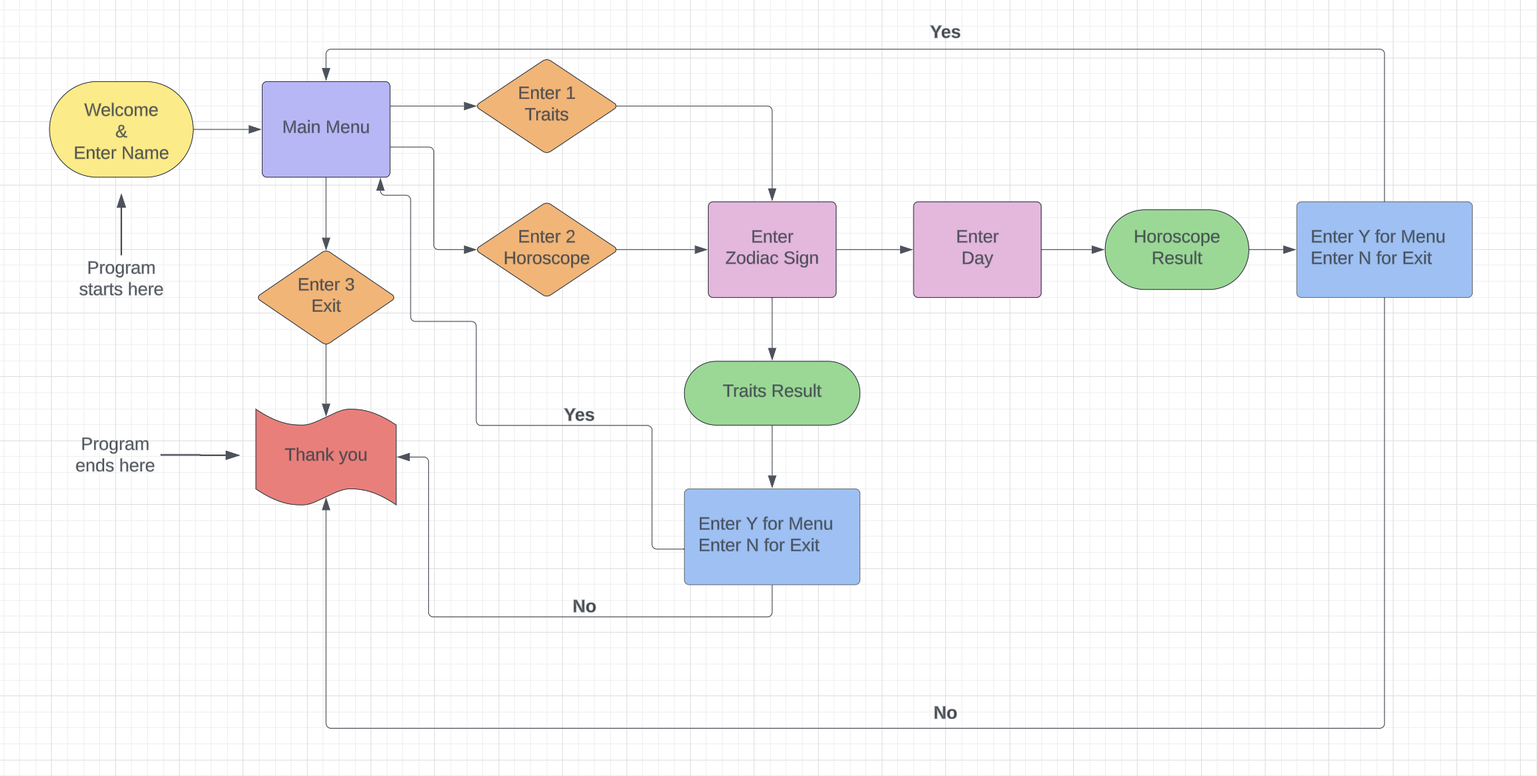
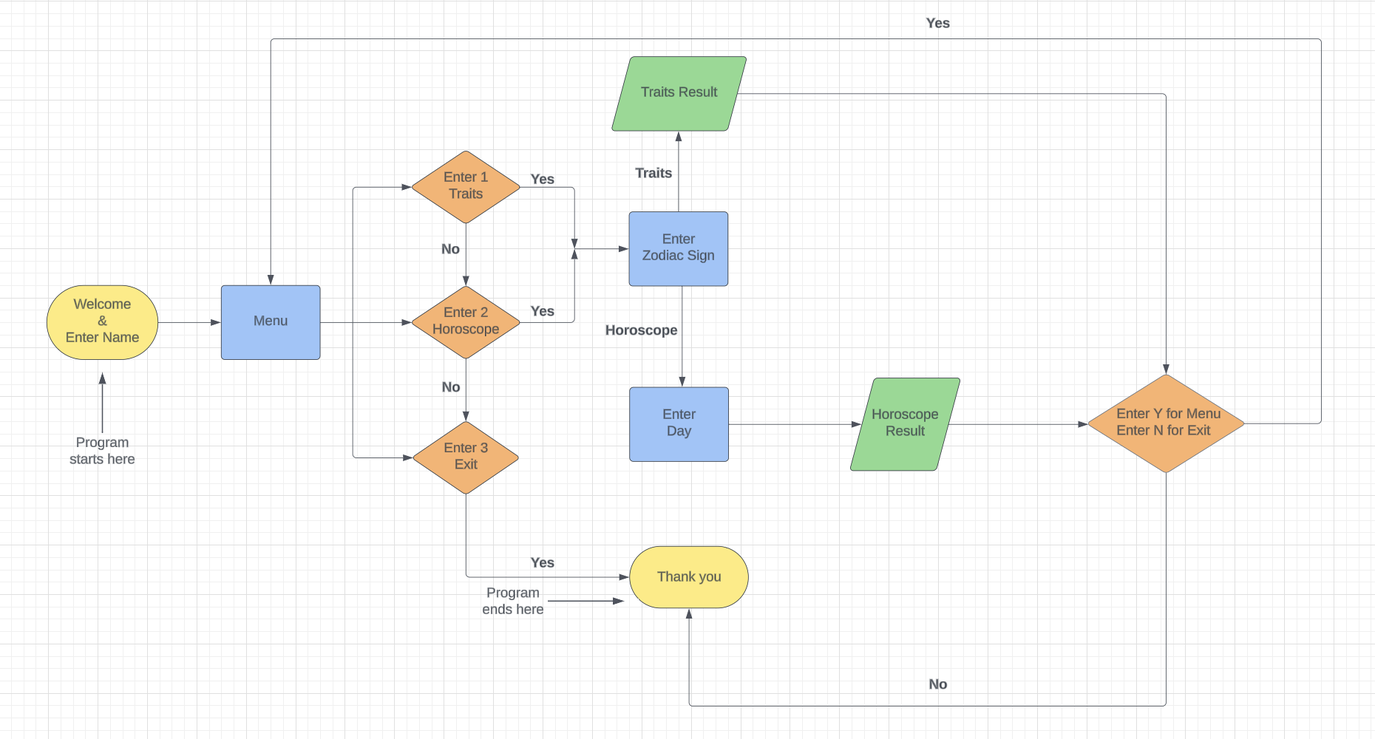
Document design features in readme.

diff --git a/README.md b/README.md
@@ -20,17 +20,20 @@ The link to the live version of the project can be found [HERE](https://your-hor
 
 - As a first-time user, I want to be able to determine my zodiac sign based on my month of birth. So that I can engage with content that is relevant to me without prior knowledge of astrology. 
 - As a first-time user, I want to choose my zodiac sign from a list. So that I can see specific insights related to my sign.
-- As a first-time user, I want the app to be colorful and engaging. So that my experience learning about my zodiac traits is fun and visually appealing.
+- As a first-time user, I want the app to be colorful, have images and engaging. So that my experience learning about my zodiac traits is fun and visually appealing.
 - As a first-time user, I want to choose the day for which I want to know my horoscope. So that I can get insights for specific days, past, present or future.
 - As a first-time user, I want easy options to navigate back or exit the app. So that I can have a smooth user experience without feeling stuck in any part of the app.
 - As a first-time user, I want to see an attractive logo when I open the app. So that I can easily recognize and remember the app.
+- As a first-times user, I would like a personalized feel of my name being used inside the application.
+- As a first-times user, I would like a simple and clear options to enhance usability and reduce confusion.
+- As a first time user, I would like to see some confirmation if I have successfully exited out of the application.
 
 ### Frequent Player:
 
 - As a frequent user, I want the horoscopes to be updated daily. So that I can rely on the app for fresh and relevant astrological insights every day.
 - As a frequent user, I want to check not only my horoscope but also those of my friends and family without restrictions. So that I can share and discuss these insights with them.
 - As a frequent user, I want the process of selecting zodiac signs and fetching results to be quick and simple. So that I can enjoy a seamless experience without unnecessary delays.
-- As a frequent user, I want to see animations and images while waiting for results. So that the waiting time is more enjoyable and the app feels lively.
+- As a frequent user, I want to see some animations while waiting for results. So that the waiting time is more enjoyable and the app feels lively.
 - As a frequent user, I want to create a profile where I can save my zodiac sign and view past results. So that I can have a personalized experience and easily access historical datas.
 
 ## Design
@@ -41,157 +44,221 @@ I made a flowchart for the project to plan out my code structure using [Lucid](h
 
 ![Flowchart](assets/readme_images/flowchart.png)
 
-<!-- ### Colour Scheme:
-
-The primary enhancement to the game from its original version is the inclusion of themed color palettes for the tiles. Key colors such as purple, orange, blue, and red have been carefully curated for this purpose. In the light mode, gentle and muted hues of these colors were chosen to create a soothing visual experience for players.
-
-Conversely, in the dark mode, deeper and richer shades of purple and blue were implemented to cater to players who prefer a very dark background. This contrasts with the darker tones of orange and red, which offer a touch of brightness to the dark-mode interface without being overly intense. The goal was to provide options for players with varying preferences regarding the darkness of the background.
-
-Throughout both light and dark modes, the emphasis was placed on avoiding excessively bright or harsh colors that could strain the player's eyes. By maintaining a balance between aesthetics and visual comfort, the game aims to enhance the overall gaming experience for players, regardless of their chosen mode.
-
-##### Light Mode:
-
-![Light Mode](documentation/light-mode-palette.png)
-
-##### Dark Mode:
-![Dark Mode](documentation/dark-mode-palette.png)
-
-### Typography:
-
-Using the default "Arial" font for the game was a deliberate choice to maintain simplicity and clarity in the overall design. By opting for a widely recognized and easy-to-read font like Arial, the focus remains on the gameplay itself without introducing unnecessary distractions or complexities.
-
-The decision to avoid excessive styling aligns with the goal of keeping the game's appearance clean and neat. Arial's straightforward and legible characteristics ensure that players can quickly interpret the text elements within the game interface without any hindrance. This approach fosters a seamless user experience, where players can engage with the game effortlessly without being overwhelmed by unnecessary design flourishes.
-
-> "The aesthetics of the website should be simple and neat to avoid any distractions from the gameplay."
-
 ## Features
 
 ### Existing Features
 
 #### Landing Page:
-The landing page is the main and sole page of the web application. It features a navigation bar at the top, providing access to various functionalities. In the middle of the landing page lies the game area, comprising a grid of tiles where users can input letters. Directly below the game area is a keyboard interface, allowing users to type letters to form words for guessing. Finally, at the bottom of the page, there is a footer displaying a copyright message.
 
-![Landing Page](documentation/landing-page.png)
+##### Objective:
 
-#### Navigation bar:
-The navigation bar on the landing page features the logo on the left side, serving as a visual identifier for the web application. On the right side of the navigation bar, users can find how to play, reset, mode, themes and statistics icons representing different functionalities to interact with the web application.
+Welcome the user to the application and collect their name for a personalized experience.
 
-> "The user interface should be welcoming and intuitive, making it easy for first-time players to navigate and interact with the game."
+##### Design Elements:
 
-![Navigation Bar](documentation/nav-bar.png)
+- Logo: Placed prominently at the top, the logo serves as a visual anchor and brand identifier, ensuring it's memorable and recognizable.
+- Welcome Message: A friendly and inviting message that greets users and sets a warm tone for their interaction with the application.
+- Name Input: A text box prompts users to enter their name, allowing for personalization of the experience. This is optional, and users can press enter to proceed anonymously if they prefer privacy.
 
-The features of those icons are explained as follows.
+##### User Flow:
 
-#### How to Play: 
-When clicked, this icon opens a modal that offers comprehensive instructions on how to play the game. It encompasses details about the game's objective, rules, and tips for achieving success during gameplay. Additionally, the background color of the "How to Play" modal dynamically adjusts according to the current theme selected by the user. This feature enhances the overall visual appeal of the game, making it more vibrant and engaging for players.
+- User sees the logo and reads the welcome message.
+- User is prompted to enter their name for a personalized experience or can choose to proceed without doing so by pressing enter.
+- Upon submission, the user is redirected to the Menu Page.
 
-> "The game should offer straightforward instructions on how to play, ensuring new players understand the mechanics without confusion."
+> - As a first-time user, I want to see an attractive logo when I open the app. So that I can easily recognize and remember the app.
+> - As a first-times user, I would like a personalized feel of my name being used inside the application.
 
-> "Clear explanations should be given regarding the conditions for winning or losing the game, helping new players set their objectives."
+![Landing Page](assets/readme_images/welcome_page.png)
 
-![How To Play](documentation/how-to-play.gif)
+#### Menu Page:
 
-#### Reset: 
-This icon allows users to reset the game or start a new round. Upon clicking, any ongoing game progress is cleared, and the game board is reset to its initial state, ready for a fresh gameplay session.
+##### Objective: 
 
-> "Facilitating easy game resets allows frequent players to quickly start new rounds, promoting replayability and continuous enjoyment of the game."
+Provide navigational choices to the user for exploring different features of the application.
 
-#### Mode: 
-Clicking on this icon toggles between different display modes, such as light mode and dark mode. Users can select their preferred mode for optimal viewing comfort, depending on their surroundings or personal preferences.
+##### Design Elements:
 
-> "Implementing a toggle between dark and light modes caters to frequent players' preferences for comfortable viewing, especially during extended gameplay sessions."
+- Logo: Continuity is maintained with the logo positioned at the top of the page.
+- Personalized Greeting: A "Hello" message that includes the user's name (if provided) to reinforce personalization.
+- Menu Options: Clearly numbered options guide the user to their next activity:<br>
+Enter 1 to know your traits.<br>
+Enter 2 to know your daily horoscope.<br>
+Enter 3 to exit.<br>
 
-![Mode](documentation/mode.gif)
+##### User Flow:
 
-#### Themes: 
-This icon provides access to a panel where users can choose from various color themes for the game interface. By selecting a theme, users can customize the appearance of the game according to their preferences or mood.
+- User is greeted by name (if provided) and sees the menu options.
+- User selects an option by entering the corresponding number.
+- The application directs the user to the appropriate page based on their selection.
 
-> "Offering a variety of colorful themes helps maintain engagement for frequent players, preventing monotony and enhancing the overall user experience."
+> - As a first-times user, I would like a simple and clear options to enhance usability and reduce confusion.
 
-![Themes](documentation/themes.gif)
+![Menu Page](assets/readme_images/main_menu.png)
 
-#### Statistics: 
-Clicking on this icon opens a modal displaying game statistics of player's achievements. It includes information such as number of games played, win percentage, games won and games lost for tracking progress and performance.
+#### Zodiac Signs Page: 
 
-> "Tracking and displaying the best scores across multiple sessions adds motivation for frequent players, allowing them to monitor their progress and strive for improvement."
+##### Objective: 
+
+Assist users in identifying their zodiac sign based on their birth date.
+
+##### Design Elements:
+
+- List of Zodiac Signs: Each zodiac sign is listed alongside its corresponding date range in brackets, aiding users who are unfamiliar with zodiac periods.
+- Instructional Prompt: Users are guided on how to select their zodiac sign, enhancing usability.
+
+##### User Flow:
+
+- User is presented with a list of zodiac signs and corresponding date ranges.
+- User identifies and selects their zodiac sign based on their birth date.
+- Depending on their previous menu selection:
+  - If option 1 was selected, the user is directed to a page detailing the traits of their chosen zodiac sign.
+  - If option 2 was selected, the user is directed to a page where the user has to select for which day they want to know thier horoscope.
+
+> - As a first-time user, I want to be able to determine my zodiac sign based on my month of birth. So that I can engage with content that is relevant to me without prior knowledge of astrology. 
+> - As a first-time user, I want to choose my zodiac sign from a list. So that I can see specific insights related to my sign.
+> - As a frequent user, I want the process of selecting zodiac signs and fetching results to be quick and simple. So that I can enjoy a seamless experience without unnecessary delays.
+
+![Zodiac Signs](assets/readme_images/zodiac_signs_list.png)
 
 
-![Statistics](documentation/statistics.gif)
+#### Zodiac's Traits Result Page:
 
-#### Game Area:
-The game area consists of grid of tiles in which the user can enter the letters to guess the word. The color of the tiles can be changed by choosing a color in the themes menu. The background of the game area will be changed between black and half-white according to dark and light mode.
-Apart from this the tiles also performs various animations and shows alert messages as follows.
+##### Objective: 
 
-![Game Area](documentation/game-area.png)
+Display detailed traits of the selected zodiac sign in an engaging and visually appealing format.
 
-#### Flip Animation:
-When the user enters a valid guess, the tiles in the game area perform a flipping animation to visually indicate the validation of the guess. The game then proceeds to validate the guess against the correct answer. Based on this validation, each tile receives a class that determines its color and visual representation:
+##### Design Elements:
 
-- **Green Tiles**: Tiles representing letters that are present in the word and in the correct position are assigned a class that gives them a green color. This indicates that the user has guessed these letters correctly.
+- Zodiac Symbol Image: Prominently displays an artistic or symbolic representation of the chosen zodiac sign at the top of the page. This visual serves not only as an attractive feature but also helps reinforce the identity of the sign.
+- Zodiac Name: The name of the zodiac sign is displayed next to the image, serving as a clear identifier and header for the information that follows.
+- Traits List: Traits of the zodiac sign are presented in a list format. The traits begin with the starting letter of the zodiac's name, adding a creative and thematic touch to the content presentation.
+- Colorful Design: The page uses colors that are associated with or complement the zodiac sign, enhancing visual engagement and making the information more appealing.
+- Navigation Options: At the bottom of the page, users are provided with options to navigate back to the menu or exit the application. The options are clearly labeled "Enter Y to return to the menu" and "Enter N to exit the game."
 
-- **Yellow Tiles**: Tiles representing letters that are present in the word but not in the correct position are assigned a class that gives them a yellow color. This indicates that the user has guessed these letters correctly but in the wrong position.
+##### User Flow:
 
-- **Grey Tiles**: Tiles representing letters that are not present in the word are assigned a class that gives them a grey color. This indicates that the user has guessed these letters incorrectly.
+- After selecting their zodiac sign on the previous page, the user is directed to the Zodiac Traits Result Page.
+- The user is greeted by an image of their zodiac symbol alongside the name of the sign, immediately confirming their choice.
+- Below the header, the user can read a list of traits that start with the same letter as the zodiac sign, making the information easy to follow and engaging.
+- The user can take their time to read through the traits, which are designed to be both informative and enjoyable.
+- After reviewing the traits, users find navigation options at the bottom of the page, allowing them to choose their next action.
 
-By assigning these classes and colors to the tiles, the game provides clear visual feedback to the user, helping them understand the correctness of their guess and guiding them in subsequent attempts. Additionally, the flipping animation adds a engaging element to the gameplay experience, enhancing user immersion and enjoyment.
+> - As a first-time user, I want the app to be colorful, have images and engaging. So that my experience learning about my zodiac traits is fun and visually appealing.
+> - As a first-time user, I want easy options to navigate back or exit the app. So that I can have a smooth user experience without feeling stuck in any part of the app.
+> - As a frequent user, I want the process of selecting zodiac signs and fetching results to be quick and simple. So that I can enjoy a seamless experience without unnecessary delays.
 
-> "Adding fun animations keeps the gameplay engaging and interesting."
+![Zodiac Traits Result](assets/readme_images/zodiac_traits_result.png)
 
-![Flip Animation](documentation/flip.gif)
+#### Day Page: 
 
-#### Shake Animation:
-If a word not in the list of valid words for gameplay is entered by the user, the tiles in the game area respond with a shake animation to indicate an invalid guess. This visual cue helps users recognize that their input does not match any valid words in the game's vocabulary, prompting them to try another word.
+##### Objective: 
 
-> "Adding fun animations keeps the gameplay engaging and interesting."
+Provide users with the ability to select a specific day for which they want to view their horoscope, enhancing the personalization of their experience.
 
-![Shake Animation](documentation/shake.gif)
+##### Design Elements:
 
-#### Dance Tile Animation:
-When the user guesses the correct word, the tiles perform a dance animation, celebrating the user's victory. This animated display adds a touch of excitement and reward to the gameplay experience, reinforcing the user's success and creating a positive interaction with the game.
+- Day Options: Clearly listed options for "yesterday," "today," and "tomorrow" allow users to choose the specific day for which they wish to receive a horoscope. This provides flexibility and relevance to the user’s daily life.
+- Prompt for Input: Below the list of days, there is a clear prompt asking the user to enter the number corresponding to their chosen day. This ensures the interaction is straightforward and minimizes confusion.
 
-> "Adding fun animations keeps the gameplay engaging and interesting."
+##### User Flow:
 
-![Dance Animation](documentation/dance.gif)
+- Upon choosing to view their horoscope (option 2 on the Menu Page), and selecting their zodiac sign, users are directed to the Day List Page.
+- Users see a list of days—yesterday, today, tomorrow—each assigned a number (1, 2, 3).
+- Users are prompted to enter the number for the day they are interested in.
+- After inputting their choice, users are directed to the Horoscope Result Page where they can view the horoscope for the selected day.
 
-#### Confetti Animation:
-A confetti animation is played when the user guesses the right word and wins the game to celebrate their victory.
+> As a first-time user, I want to choose the day for which I want to know my horoscope. So that I can get insights for specific days, past, present or future.
 
-> "Adding fun animations keeps the gameplay engaging and interesting."
+![Day List Page](assets/readme_images/day_list.png)
 
-![Confetti Animation](documentation/confetti.gif)
+#### Daily Horoscope Result Page: 
 
-#### Alert Messages:
+##### Objective: 
 
-Alert messages are displayed on the tiles for various scenarios to guide the user to play more effectively:
+Display a personalized horoscope for the user based on their zodiac sign and the selected day, ensuring fresh and relevant content is delivered by fetching daily updates from a reliable source.
 
-- When the user enters an invalid guess, an alert message stating "Not in word list." is displayed. This informs the user that the entered word is not valid for the game.
+##### Design Elements:
 
-- If the user submits a word before entering 5 letters, an alert message displays "Not enough letters." This reminds the user to input a complete word before submitting.
+- Zodiac and Day Information: At the top of the page, the user's chosen zodiac sign and the selected day (yesterday, today, tomorrow) are prominently displayed. This helps reinforce the personalization of the information and sets context for the horoscope result.
+- Horoscope Content: Directly below the zodiac and day information, the horoscope result is displayed. This content is updated daily from the horoscope.com website to ensure it is timely and relevant.
+- Colorful Design: The page uses colors that complement the result, enhancing visual engagement and making the information more appealing.
+- Navigation Options: At the bottom of the page, users are given options to either return to the menu by pressing "Y" or to exit the application by pressing "N". This offers straightforward navigation tailored to the user's preference for continued use or closing the session.
+- Unlimited Access: Users can check their horoscope multiple times for multiple zodiac signs without any restrictions, enhancing the utility and flexibility of the application.
 
-- When the user correctly guesses the word, an alert message appears saying "Congratulations, You win." to celebrate the user's victory.
+#### User Flow:
 
-- If the user is unable to guess the word after 6 attempts, an alert message displays "Oops.. You missed it.. The correct word is ' [correct word] '." This informs the user of the correct word, providing closure to the game round.
+- After selecting their zodiac sign and the day for which they want the horoscope on the Day List Page, users are directed here.
+- Users are greeted with the name of their zodiac and the day they have chosen, providing clear confirmation of their selections.
+- The personalized horoscope, fetched from horoscope.com, is displayed, offering insights based on astrological predictions for the selected day.
+- After reviewing their horoscope, users decide whether to return to the main menu for more activities or to exit the application.
 
-These alert messages assist the user by providing feedback and guidance throughout the gameplay, ensuring a smoother and more engaging experience.
+> - As a first-time user, I want easy options to navigate back or exit the app. So that I can have a smooth user experience without feeling stuck in any part of the app.
+> - As a first-time user, I want the app to be colorful, have images and engaging. So that my experience learning about my zodiac traits is fun and visually appealing.
+> - As a frequent user, I want the horoscopes to be updated daily. So that I can rely on the app for fresh and relevant astrological insights every day.
+> - As a frequent user, I want to check not only my horoscope but also those of my friends and family without restrictions. So that I can share and discuss these insights with them.
+> - As a frequent user, I want the process of selecting zodiac signs and fetching results to be quick and simple. So that I can enjoy a seamless experience without unnecessary delays.
 
-> "- The user interface should be welcoming and intuitive, making it easy for first-time players to navigate and interact with the game."
+![Daily Horoscope Result](assets/readme_images/horoscope_result.png)
 
-![Alert Messages](documentation/alert.gif)
+#### Thank You Page:
 
-#### Keyboard Area:
- - The keyboard area comprises a keyboard interface that allows users to input letters into the tiles either by clicking or touching them, depending on the device they are using. 
- - The colors of the keyboard dynamically change between dark grey and white based on the selected dark and light mode themes. This ensures consistency with the overall color scheme of the interface, providing a visually cohesive experience for the user across different modes. 
- - The color of the keys changes to green, yellow, and grey, matching the tiles. This helps the user to identify which letters are in the right place, wrong place, or not in the game to play more effectively.
- - The color of key changes when hovered over for the user to identify on which key the mouse is in to type easily.
+##### Objective: 
 
-![Keyboard Area](documentation/keyboard.png)
+Provide a pleasant and friendly closure to the user's session in the application, confirming their successful exit and offering guidance on how to re-engage with the app if desired.
 
-#### Footer:
-The footer of the landing page which is at the bottom, contains a copyright message.
+##### Design Elements:
 
-![Footer](documentation/footer.png)
+- Colorful Owl Image: A charming and colorful illustration of an owl is prominently displayed on this page. The owl can symbolize wisdom and is often well-received in visual communications, making it a fitting choice for conveying a thoughtful goodbye.
+- Thank You Message: Positioned directly below the owl, this message thanks the user for using the application, enhancing the personal touch and expressing appreciation for the user’s time and interaction.
+- Re-engagement Instruction: A small message at the bottom of the page instructs users on how to restart the application by clicking the "Run Program" button. This provides clear guidance for users who might want to use the app again, making re-engagement straightforward.
 
-### Future Features:
+##### User Flow:
+
+- When the user selects the option to exit at any page where this choice is provided, they are directed to the Thank You Page.
+- The user is greeted by the visually appealing owl image, along with a thank you message acknowledging their use of the app.
+- At the end of the session, the user reads the note on how to restart the application, offering a clear path to return if they choose.
+
+> - As a first time user, I would like to see some confirmation if I have successfully exited out of the application.
+
+
+![Thank You](assets/readme_images/thank_you_page.png)
+
+#### Loading Animation Page:
+
+##### Objective: 
+Provide an engaging and visually appealing experience during data processing times, reducing perceived wait times and keeping the user entertained.
+
+##### Design Elements:
+
+- Animated Zodiac Symbols: A dynamic animation featuring zodiac symbols transitioning from one to another, representing all twelve zodiac signs. This animation not only keeps the user visually engaged but also reinforces the astrological theme of the application.
+- Loading Message: Positioned directly below the animation, a clear message such as "Loading your results..." informs the user that their request is being processed. This communication helps manage user expectations during the wait.
+- Application Logo: Displayed at the top of the page, the application logo maintains brand presence and continuity throughout the user experience, anchoring the page visually.
+
+##### User Flow:
+
+- After the user inputs their choices for either zodiac traits or their daily horoscope, they are directed to the Loading Animation Page.
+- As the backend processes the request, users see a captivating display of zodiac symbols transitioning smoothly, which keeps them entertained.
+- The loading message reassures them that their results are on the way, reducing potential frustration associated with waiting.
+- Once the data processing is complete, the user is automatically redirected to the respective result page (Zodiac Traits Result Page or Horoscope Result Page).
+
+> - As a first-time user, I want to see an attractive logo when I open the app. So that I can easily recognize and remember the app.
+> - As a frequent user, I want to see some animations while waiting for results. So that the waiting time is more enjoyable and the app feels lively.
+
+![Loading Animation](assets/readme_images/loading_animation.gif)
+
+#### Typing Animation:
+
+
+![Typing Animation](documentation/flip.gif)
+
+#### Error Messages:
+
+
+![Error Messages](documentation/shake.gif)
+
+
+<!-- ### Future Features:
 ##### Sound Effects: 
 Implementing sound effects to enhance the gaming experience, making it more enjoyable and immersive for users.
 
